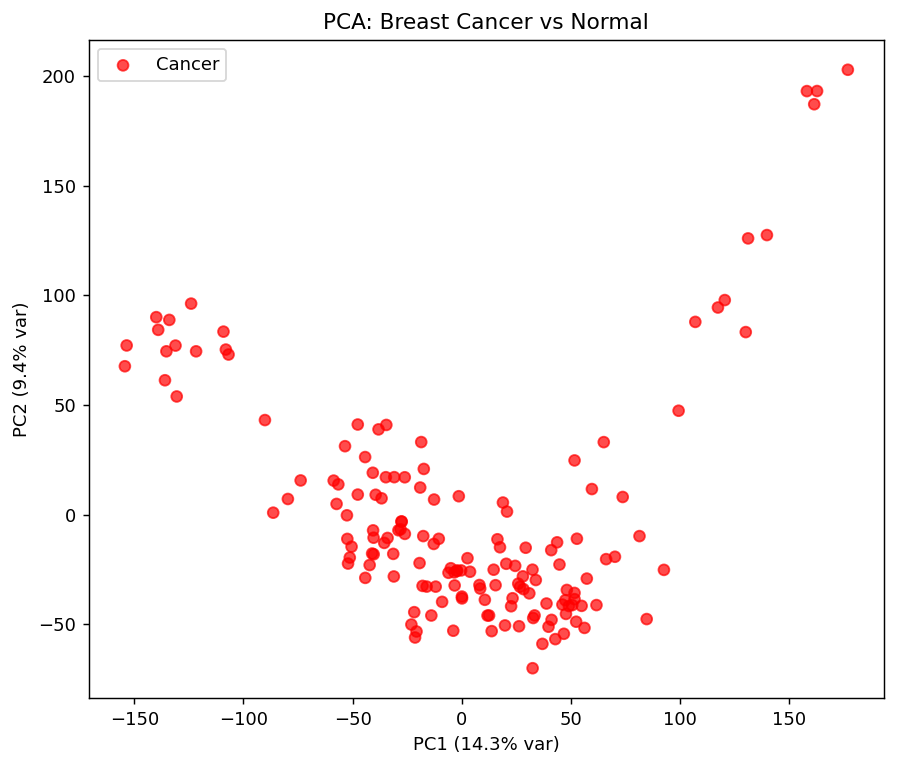
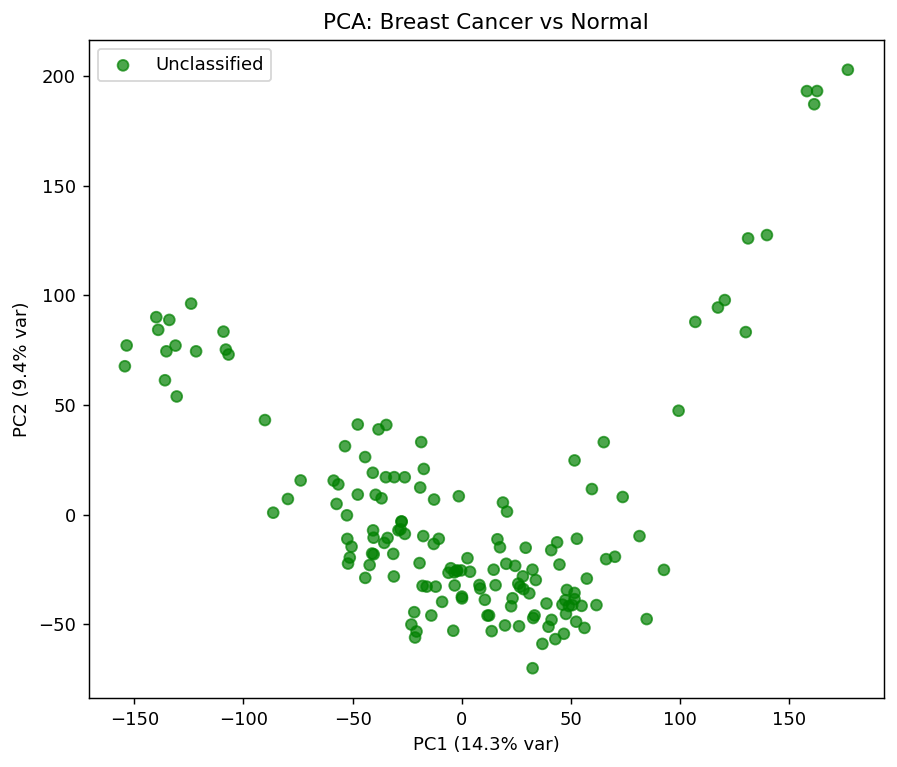
add keywords in classify_type()

diff --git a/main.py b/main.py
@@ -44,36 +44,40 @@ def make_synthetic_data(n_genes=1500, n_cancer=40, n_normal=20, seed=42):
         "Type": ["Cancer"] * n_cancer + ["Normal"] * n_normal
     })
     return expr, meta
+
 def classify_type(x):
     text = str(x).lower()
-    if "normal" in text:
+    normal_keywords = ["normal", "control", "healthy", "benign", "adjacent", "non-tumor", "wildtype", "non-cancer", "wt", "ctrl"]
+    cancer_keywords = ["tumor", "cancer", "carcinoma", "malignant", "adenocarcinoma", "ductal", "invasive", "metastatic",
+                       "primary", "tumour", "neoplasm", "cancerous", "oncology"]
+    if any(keyword in text for keyword in normal_keywords):
         return "Normal"
-    elif "tumor" in text or "cancer" in text or "carcinoma" in text:
+    elif any(keyword in text for keyword in cancer_keywords):
         return "Cancer"
     else:
-        return "Cancer"
+        return "Unclassified"
 
 def load_data(expr_path=None, meta_path=None, log2_if_needed=True):
     if expr_path and os.path.exists(expr_path) and (meta_path is None):
         expression = pd.read_csv(expr_path, sep="\t", comment="!", index_col=0)
-        metadata = []
+        
+        metadata_lines = []
         with open(expr_path) as f:
             for line in f:
                 if line.startswith("!Sample_characteristics_ch1"):
-                    parts = line.strip().split("\t")
-                    metadata.append(parts)
+                    metadata_lines.append(line.strip().split("\t"))
 
         meta_dict = {}
-        for row in metadata:
-            key = row[0].replace("!Sample_characteristics_ch1 = ", "")
-            values = row[1:]
-            meta_dict[key] = values
+        if metadata_lines:
+            for i, row in enumerate(metadata_lines):
+                key = row[0].replace("!Sample_characteristics_ch1 = ", "")
+                values = row[1:]
+                meta_dict[key] = values
 
         metadata = pd.DataFrame(meta_dict)
         metadata.insert(0, "SampleID", expression.columns)
 
-
-        metadata["Type"] = metadata.drop(columns=["SampleID"]).apply(
+        metadata["Type"] = metadata.apply(
             lambda row: classify_type(" ".join(row.values.astype(str))),
             axis=1
         )
@@ -81,7 +85,7 @@ def load_data(expr_path=None, meta_path=None, log2_if_needed=True):
     elif expr_path and meta_path and os.path.exists(expr_path) and os.path.exists(meta_path):
         expression = pd.read_csv(expr_path, index_col=0)
         metadata = pd.read_csv(meta_path)
-
+    
     else:
         print("[INFO] No valid files provided; generating a synthetic dataset so the pipeline can run.")
         expression, metadata = make_synthetic_data()
@@ -97,7 +101,7 @@ def plot_pca(expression, metadata, out_path):
     label_map = metadata.set_index("SampleID")["Type"].to_dict()
     labels = np.array([label_map[s] for s in expression.columns])
 
-    color_map = {"Cancer": "red", "Normal": "blue"}
+    color_map = {"Cancer": "red", "Normal": "blue", "Unclassified": "Green"}
     colors = [color_map[l] for l in labels]
 
     plt.figure(figsize=(7, 6), dpi=130)
